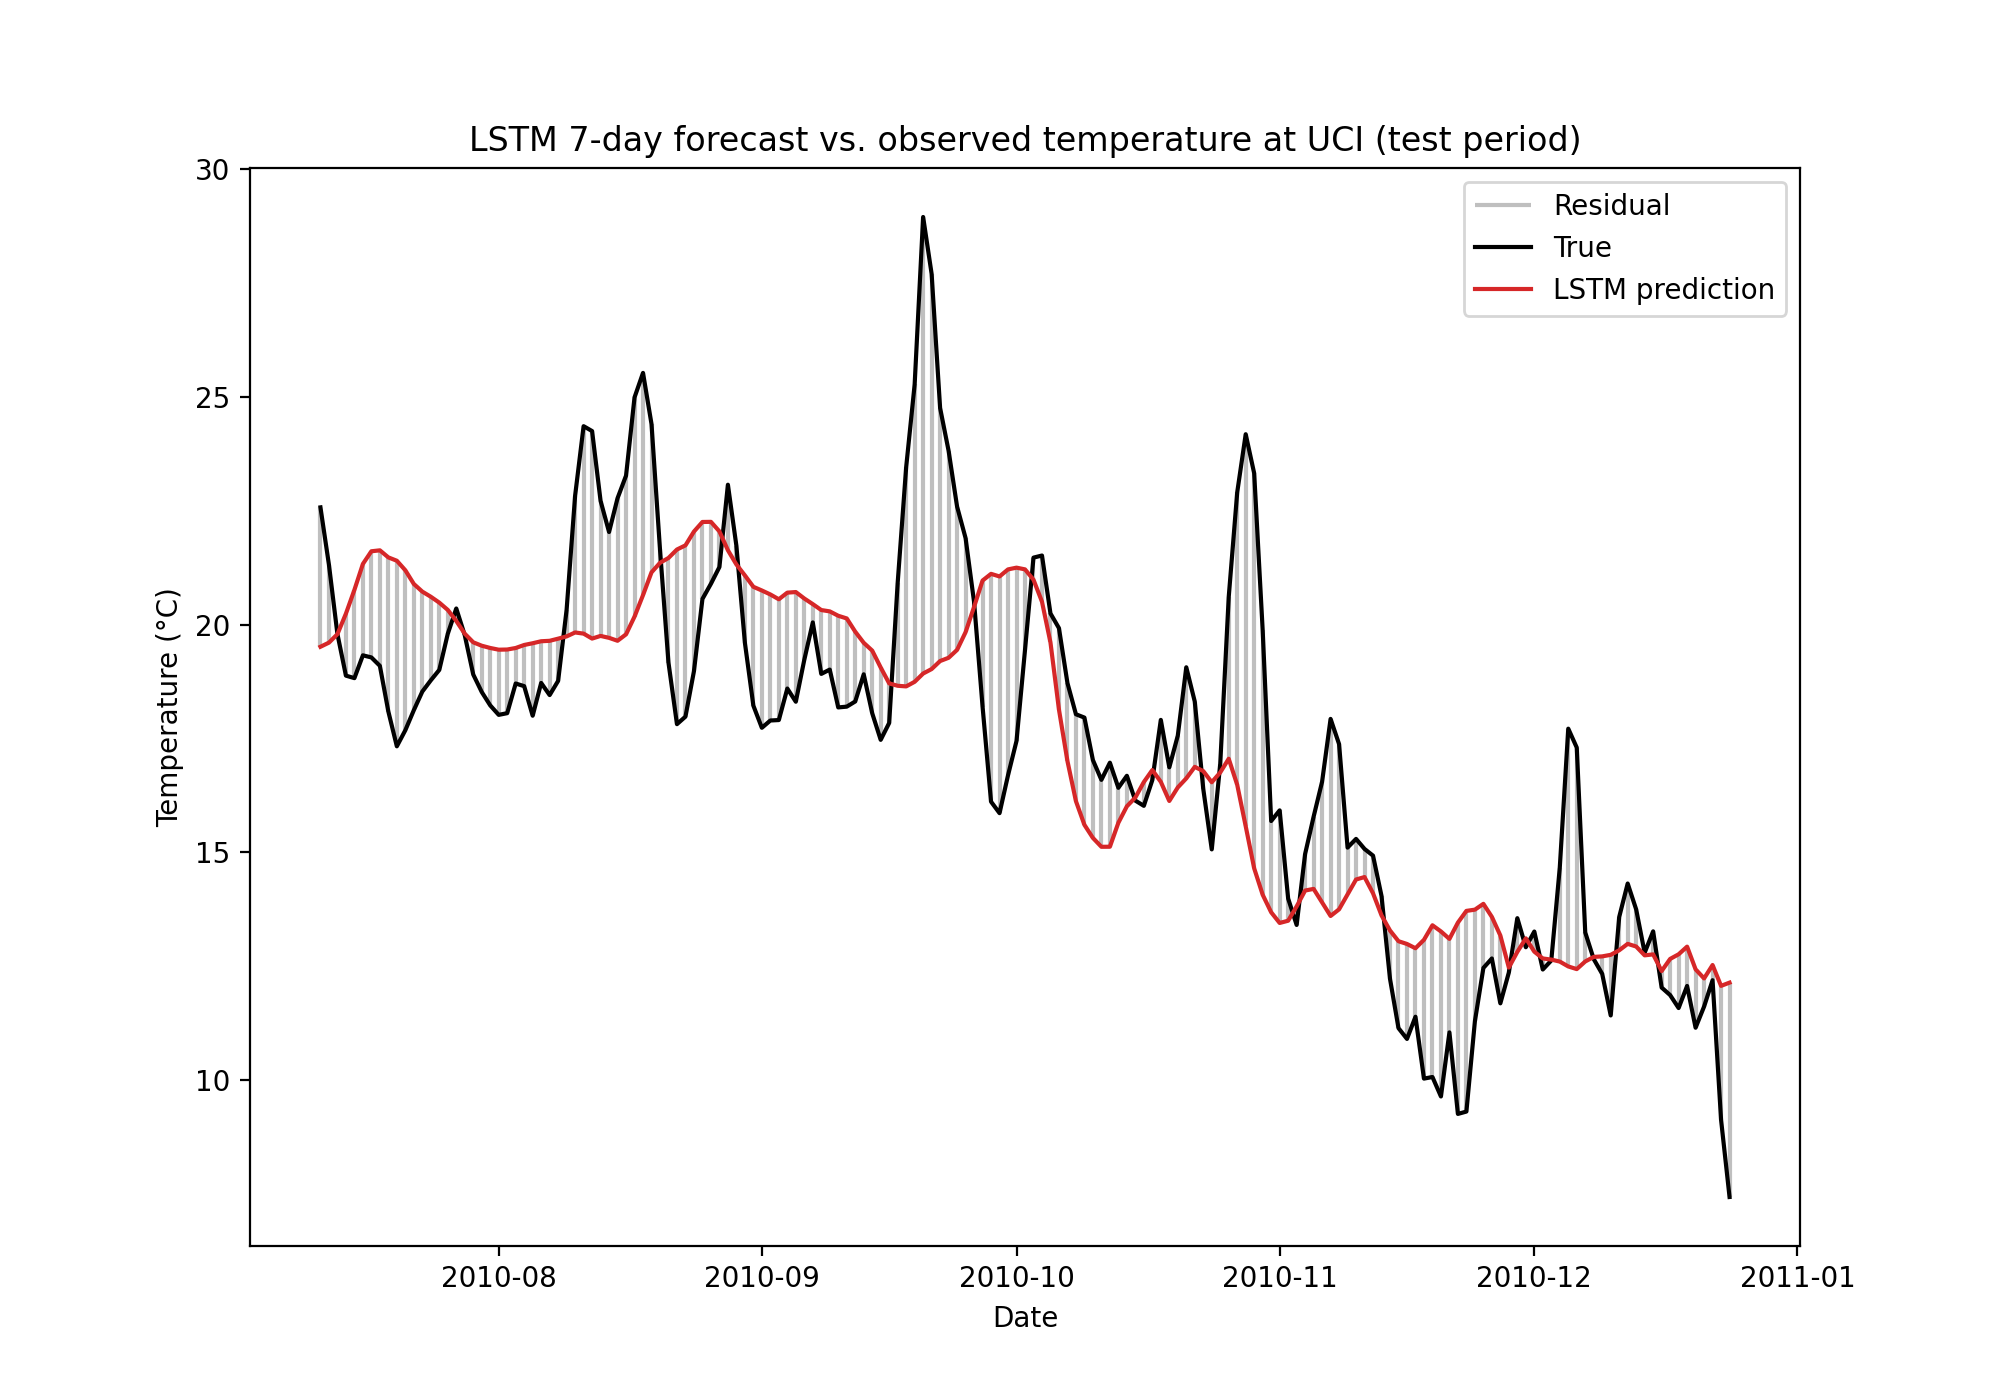
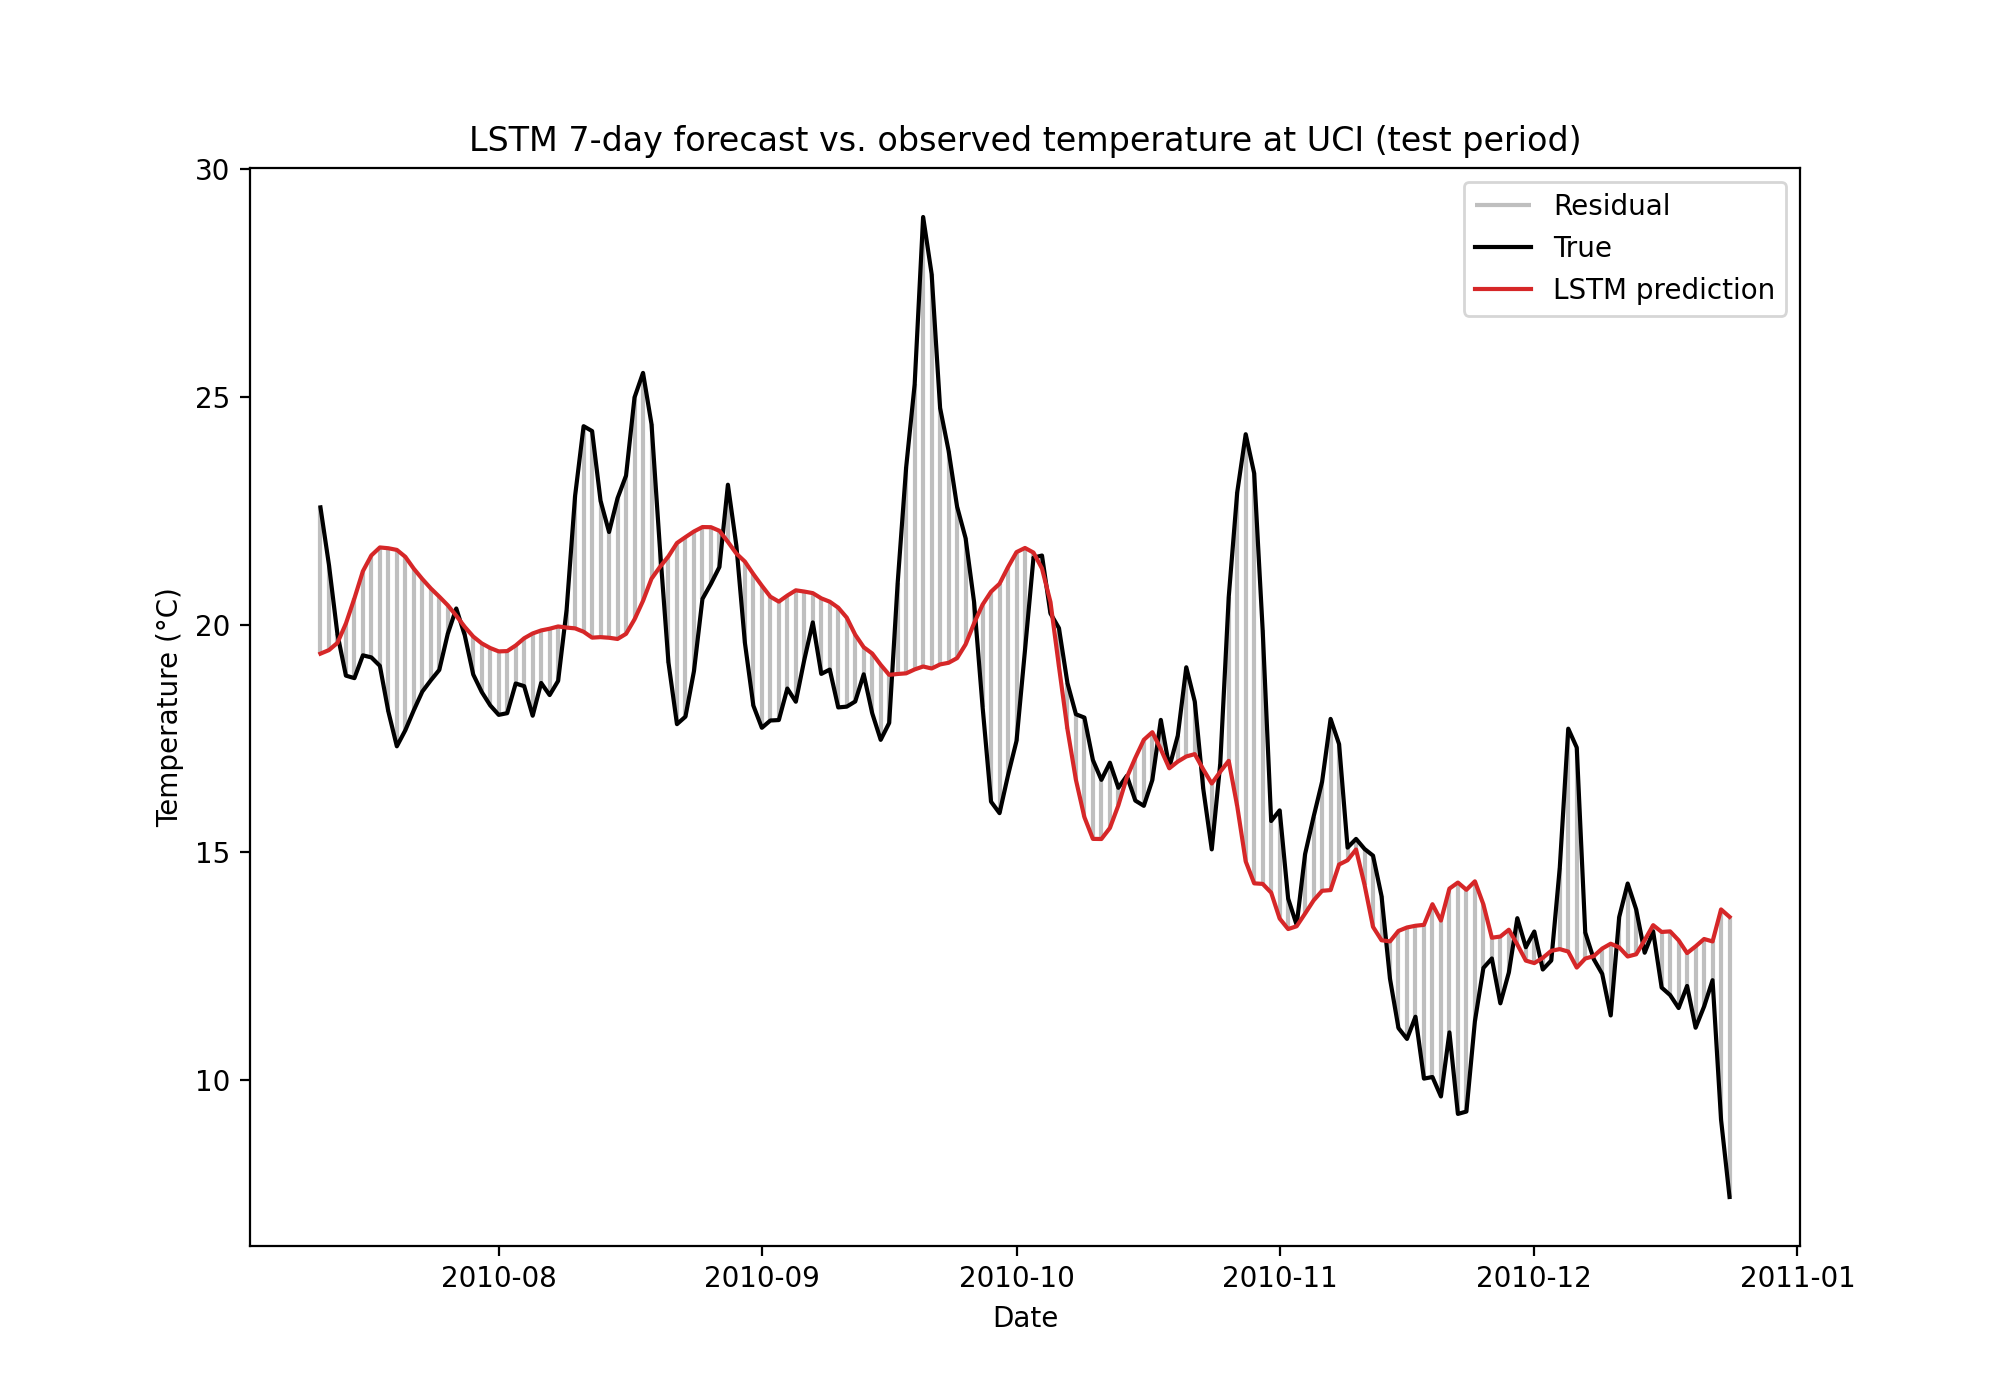
Finalized docstring, scripts, plots, and results.

diff --git a/run.py b/run.py
@@ -1,3 +1,4 @@
+import os
 import torch
 import pandas as pd
 from sklearn.linear_model import LinearRegression
@@ -8,11 +9,23 @@ from src.model import TempNN, TempLSTM, eval, predict
 from src.train import train_model, make_windows
 from src.plot import barplot, lineplot, prediction_plot
 
+SEEDS = [0, 1, 2, 3, 4]
+
+MODEL_NAMES = {
+    "baseline": "Baseline (persistence)",
+    "lin_reg_3": "Linear regression, 3 variables",
+    "nn_3": "Neural network, 3 variables",
+    "nn_7": "Neural network, 7 variables",
+    "lstm": "LSTM neural network",
+}
+
 def main():
     ds_uci = load_data()
     print("Data Loaded")
 
-    metrics = pd.DataFrame(columns=["model", "r2", "rmse", "skill"])
+    lineplot(ds_uci["valid_time"], ds_uci["t2m"], None, "Time (days)", "Temperature (C)", "Temperature at UC Irvine (2009-2010)", "uci_temp")
+
+    metrics = pd.DataFrame(columns=["model", "seed", "r2", "rmse", "skill"])
 
     features = ["t2m", "rolling_3", "rolling_7"]
 
@@ -41,12 +54,10 @@ def main():
         {"name": "lstm",  "model": TempLSTM, "features": ["t2m", "u10", "v10", "msl", "tp"], "history": 7},
     ]
 
-    pred_temps = []
+    pred_temps = {}
 
     for idx, exp in enumerate(EXPERIMENTS):
-        name, model, features, history = exp.values()
-
-        model = model(input_dim=len(features))
+        name, model_class, features, history = exp.values()
 
         X_train, y_train, X_val, y_val, X_test, y_test, X_scaler, y_scaler = split_and_scale(ds=ds_uci, FEATURES=features, scale=True)
 
@@ -54,43 +65,63 @@ def main():
         X_val, y_val = make_windows(X_val, y_val, history)
         X_test, y_test = make_windows(X_test, y_test, history)
 
+        for seed in SEEDS:
+            torch.manual_seed(seed)
+            model = model_class(input_dim=len(features))
 
-        model, epoch = train_model(
-            model=model,
-            X_train=X_train,
-            y_train=y_train,
-            X_val=X_val,
-            y_val=y_val,
-        )
+            model, epoch = train_model(
+                model=model,
+                X_train=X_train,
+                y_train=y_train,
+                X_val=X_val,
+                y_val=y_val,
+            )
 
-        pred_temps.append(predict(model, X_test, y_scaler))
+            pred_temps[(name, seed)] = predict(model, X_test, y_scaler)
 
-        test_r2, test_rmse, test_skill = eval(model, X_test, y_test, y_scaler, baseline=metrics["rmse"][0])
+            test_r2, test_rmse, test_skill = eval(model, X_test, y_test, y_scaler, baseline=metrics["rmse"][0])
 
-        metrics.loc[len(metrics)] = {
-        "model": name,
-        "r2": test_r2,
-        "rmse": test_rmse,
-        "skill": test_skill
-        }
+            metrics.loc[len(metrics)] = {
+            "model": name,
+            "seed": seed,
+            "r2": test_r2,
+            "rmse": test_rmse,
+            "skill": test_skill
+            }
+        print(f"{name} trained on {len(SEEDS)} seeds")
+
+    summary = metrics.groupby("model", sort=False)[["r2", "rmse", "skill"]].agg(["mean", "std"])
+
+    # Results tables
+    results_table = pd.DataFrame({"Model": summary.index.map(MODEL_NAMES)})
+    for metric, column in [("r2", "Test R²"), ("rmse", "Test RMSE (°C)"), ("skill", "Test skill")]:
+        results_table[column] = [
+            f"{mean:.3f}" if pd.isna(std) else f"{mean:.3f} ± {std:.3f}"
+            for mean, std in zip(summary[(metric, "mean")], summary[(metric, "std")])
+        ]
+
+    os.makedirs("./results", exist_ok=True)
+    metrics.astype({"seed": "Int64"}).to_csv("./results/metrics.csv", index=False)
+    results_table.to_csv("./results/results_table.csv", index=False)
+    print("metrics and results table saved")
 
     # Metrics plots
-    barplot(metrics["model"], metrics["r2"], metrics["model"], "Models", "r2", "Compared r2 score Between Models", "r2")
+    barplot(metrics["model"], metrics["r2"], metrics["model"], "Models", "R$\mathregular{^2}$", "Compared R$\mathregular{^2}$ score Between Models", "r2")
     print("r2 plot saved")
     barplot(metrics["model"], metrics["rmse"], metrics["model"], "Models", "RMSE (C)", "Compared RMSE Between Models", "rmse")
     print("rmse plot saved")
-    barplot(metrics["model"], metrics["skill"], metrics["model"], "Models", "Skill", "Compared Skill Between Models", "skill")
+    barplot(metrics["model"], metrics["skill"], metrics["model"], "Models", "Skill vs. persistence", "Compared Skill Between Models", "skill")
     print("skill plot saved")
 
     # Predicted temp vs real temp
     dates, y_true = get_dates(ds_uci)
     dates, y_true = dates.iloc[history - 1:], y_true[history - 1:]
-    prediction_plot(dates, y_true, pred_temps[2], "Date", "Temperature (°C)", "LSTM 7-day forecast vs. observed temperature at UCI (test period)", "lstm_test")
+    prediction_plot(dates, y_true, pred_temps[("lstm", SEEDS[0])], "Date", "Temperature (°C)", "LSTM 7-day forecast vs. observed temperature at UCI (test period)", "lstm_test")
     print("prediction plot saved")
 
     # Skill against lead time
 
-    lead_metrics = pd.DataFrame(columns=["model", "lead", "rmse", "skill"])
+    lead_metrics = pd.DataFrame(columns=["model", "lead", "seed", "rmse", "skill"])
     max_history = max(exp["history"] for exp in EXPERIMENTS)
 
     for step in range(1, 15):
@@ -127,25 +158,27 @@ def main():
             X_test, y_test = make_windows(X_test, y_test, history)
             X_test, y_test = X_test[max_history - history:], y_test[max_history - history:]
 
-            torch.manual_seed(0)
-            model = model_class(input_dim=len(features))
+            for seed in SEEDS:
+                torch.manual_seed(seed)
+                model = model_class(input_dim=len(features))
 
-            model, epoch = train_model(
-                model=model,
-                X_train=X_train,
-                y_train=y_train,
-                X_val=X_val,
-                y_val=y_val,
-            )
+                model, epoch = train_model(
+                    model=model,
+                    X_train=X_train,
+                    y_train=y_train,
+                    X_val=X_val,
+                    y_val=y_val,
+                )
 
-            test_r2, test_rmse, test_skill = eval(model, X_test, y_test, y_scaler, baseline=baseline_rmse)
+                test_r2, test_rmse, test_skill = eval(model, X_test, y_test, y_scaler, baseline=baseline_rmse)
 
-            lead_metrics.loc[len(lead_metrics)] = {
-                "model": name,
-                "lead": step,
-                "rmse": test_rmse,
-                "skill": test_skill
-            }
+                lead_metrics.loc[len(lead_metrics)] = {
+                    "model": name,
+                    "lead": step,
+                    "seed": seed,
+                    "rmse": test_rmse,
+                    "skill": test_skill
+                }
         print(f"Skill vs lead time day {step} completed")
 
     lineplot(lead_metrics["lead"], lead_metrics["skill"], lead_metrics["model"], "Lead time (days)", "Skill vs. persistence", "Skill vs. Lead Time", "skill_lead")

diff --git a/src/plot.py b/src/plot.py
@@ -8,9 +8,9 @@ def barplot(x, y, hue, xlabel, ylabel, title, figname):
     """
     fig, ax = plt.subplots(figsize=(10, 7))
 
-    sns.barplot(x=x, y=y, hue=hue, ax=ax)
+    sns.barplot(x=x, y=y, hue=hue, errorbar="sd", capsize=0.2, ax=ax)
     for container in ax.containers:
-        ax.bar_label(container, fmt="%.3f", padding=3)
+        ax.bar_label(container, fmt="%.3f", label_type="center", color="white", fontweight="bold")
     ax.margins(y=0.1)
     ax.set_xlabel(xlabel)
     ax.set_ylabel(ylabel)
@@ -24,7 +24,7 @@ def lineplot(x, y, hue, xlabel, ylabel, title, figname):
     """
     fig, ax = plt.subplots(figsize=(10, 7))
 
-    sns.lineplot(x=x, y=y, hue=hue, ax=ax)
+    sns.lineplot(x=x, y=y, hue=hue, errorbar="sd", ax=ax)
     ax.set_xlabel(xlabel)
     ax.set_ylabel(ylabel)
     ax.set_title(title) 

diff --git a/src/data.py b/src/data.py
@@ -34,7 +34,7 @@ def load_data(filepath="./data/"):
 
     return ds_uci
 
-def split_and_scale(ds, FEATURES, TARGET="target_t2m", gap=7, seed=222, scale=False):
+def split_and_scale(ds, FEATURES, TARGET="target_t2m", gap=7, seed=0, scale=False):
     """
     Splits and rescales data into a training, validation, and test set
 
@@ -82,7 +82,7 @@ def split_and_scale(ds, FEATURES, TARGET="target_t2m", gap=7, seed=222, scale=Fa
 
     return X_train, y_train, X_val, y_val, X_test, y_test
 
-def get_dates(ds, seed=222, gap=7):
+def get_dates(ds, seed=0, gap=7):
     """
     Gets the dates from the split being tested
 

diff --git a/README.md b/README.md
@@ -1,3 +1,76 @@
-# Weather Prediciton with Machine Learning
+# Temperature Prediction with Machine Learning
 
-For this project I am using a variety of machine learning methods to find how well we can predict the temperature of a given area 7 days out from today's local temperature and other features.
+**Video:** [Project summary](https://drive.google.com/file/d/1Xjs32SnCbuBnyoeKw7zn0jACH_a5BUJy/view?usp=sharing)
+
+## The Question
+
+How accurately can machine learning predict the daily mean temperature at UC Irvine one week in advance with only local data, and how does model complexity affect accuracy?
+
+The data used are from ERA5 reanalysis daily means of 2 m temperature, 10 m wind (u and v components), mean sea level pressure, and total precipitation over the continental US for 2009–2010 with calculated 3 and 7 day precipitation averages. The models use the grid cell nearest UC Irvine (33.75° N, 117.75° W). Each model predicts the temperature 7 days ahead and is compared against persistence, a baseline that predicts the temperature in 7 days will equal today's. Skill is $1 - \text{RMSE}_{\text{model}} / \text{RMSE}_{\text{persistence}}$, so 0 means no better than persistence and 1 means a perfect forecast.
+
+The data is split by time: 2009 for training, January–June 2010 for validation (early stopping), and July–December 2010 for testing. Rows are dropped at the start of the validation and test sets so that no training target falls inside a later split.
+
+## Results
+
+After running `run.py` we can see the following results for a 7-day forecast.
+
+| Model | Test R² | Test RMSE (°C) | Test skill |
+|---|---:|---:|---:|
+| Baseline (persistence) | 0.142 | 3.817 | 0.000 |
+| Linear regression, 3 variables | 0.340 | 3.348 | 0.123 |
+| Neural network, 3 variables | 0.391 ± 0.012 | 3.216 ± 0.031 | 0.157 ± 0.008 |
+| Neural network, 7 variables | 0.368 ± 0.015 | 3.275 ± 0.040 | 0.142 ± 0.010 |
+| LSTM neural network | **0.526 ± 0.019** | **2.793 ± 0.056** | **0.268 ± 0.015** |
+
+Each neural network is trained with 5 random seeds, and its scores are the mean ± standard deviation across those runs. The baseline and linear regression involve no randomness, so they have a single value.
+
+The 3-variable models use today's temperature and its 3-day and 7-day rolling means. The 7-variable network adds wind, pressure, and precipitation. The LSTM sees the previous 7 days of temperature, wind, pressure, and precipitation.
+
+![LSTM 7-day forecast vs. observed temperature](figures/lstm_test.png)
+
+Upon investigating our most accurate model on the test period, the LSTM (shown for one seed) follows the seasonal cooling from summer into winter but misses short warm spells. Its largest error, about 10 °C, is the late-September 2010 heat wave.
+
+![Skill vs. lead time](figures/skill_lead.png)
+
+Repeating the experiment for lead times of 1 to 14 days shows where machine learning helps. Lines show the mean over 5 seeds, and shaded bands show ±1 standard deviation. At 1–3 days, persistence is hard to beat: linear regression has the most skill, and the LSTM is worse than persistence. The models are roughly tied around 4 days. From there the LSTM pulls ahead, reaching a skill of about 0.3 from 9 days onward.
+
+**Conclusion:** All of the machine learning models beat persistence at a 7-day lead, and the LSTM does best, cutting RMSE from 3.8 °C to 2.8 °C (skill 0.27). Its lead is consistent across random seeds, while the two feed-forward networks are within about one standard deviation of each other, so adding wind, pressure, and precipitation to them makes no clear difference at this lead. The advantage depends on lead time: for the first few days, today's temperature is already a strong forecast and the more complex models add little or nothing, but by a week out the LSTM's use of the past week of weather gives a clear improvement. We see that the LSTM forecasts a smoothed, seasonal version of the temperature rather than predicting individual weather events, so despite beating the baseline prediction, shorter events like heat waves are not predictable a week ahead from a single location's recent weather.
+
+## How to run it
+
+1. Create the environment:
+   ```
+   conda env create -f environment.yml -n temp-prediction
+   conda activate temp-prediction
+   ```
+2. Get the data. To download it, use the [ERA5 post-processed daily statistics on single levels](https://cds.climate.copernicus.eu/datasets/derived-era5-single-levels-daily-statistics) dataset on the Copernicus Climate Data Store with these settings:
+   - Variables: 2m temperature, 10m u-component of wind, 10m v-component of wind, mean sea level pressure, total precipitation
+   - Years: 2009 and 2010, all months and days
+   - Statistic: daily mean
+   - Area: 50° N, 125° W, 24° N, 66° W
+
+   Put the NetCDF (`.nc`) files anywhere inside `data/`; `run.py` finds them in subfolders. The data files are not in this repository: they are too large for GitHub.
+3. Run from the repository folder:
+   ```
+   python run.py
+   ```
+   This takes about a minute on a laptop. Figures go to `figures/` and tables to `results/`: `results_table.csv` is the summary table above, and `metrics.csv` has the scores for every model and seed.
+
+## What's in this repository
+
+| Path | Contents |
+|---|---|
+| `run.py` | The analysis, start to finish. The one file to run. |
+| `src/data.py` | Loading the ERA5 data at UC Irvine, building features and the 7-day target, and the 50/25/25 time-based split |
+| `src/model.py` | The feed-forward neural network and LSTM, plus prediction and evaluation |
+| `src/train.py` | Training with early stopping, and building the 7-day input windows for the LSTM |
+| `src/plot.py` | The figures |
+| `figures/` | Figures made by `run.py` |
+| `results/` | Results tables made by `run.py` |
+| `environment.yml` | The packages needed |
+
+## Reference
+
+Hersbach, H., Bell, B., Berrisford, P., et al. (2020). The ERA5 global reanalysis. *Quarterly Journal of the Royal Meteorological Society*, 146(730), 1999–2049. https://doi.org/10.1002/qj.3803
+
+Copernicus Climate Change Service (2024). ERA5 post-processed daily statistics on single levels from 1940 to present. Copernicus Climate Change Service (C3S) Climate Data Store. https://doi.org/10.24381/cds.4991cf48
